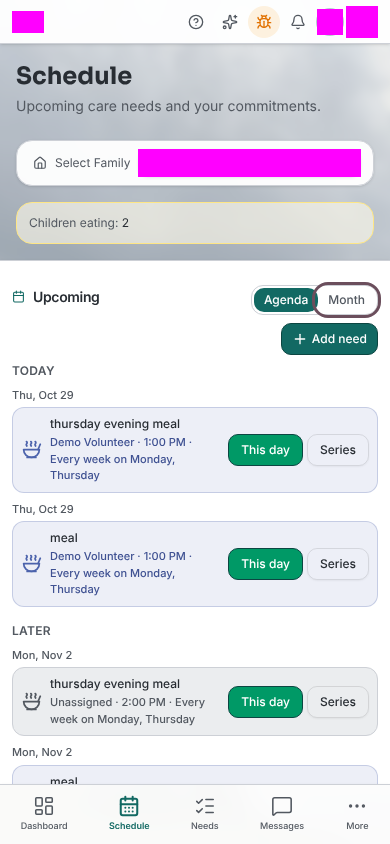
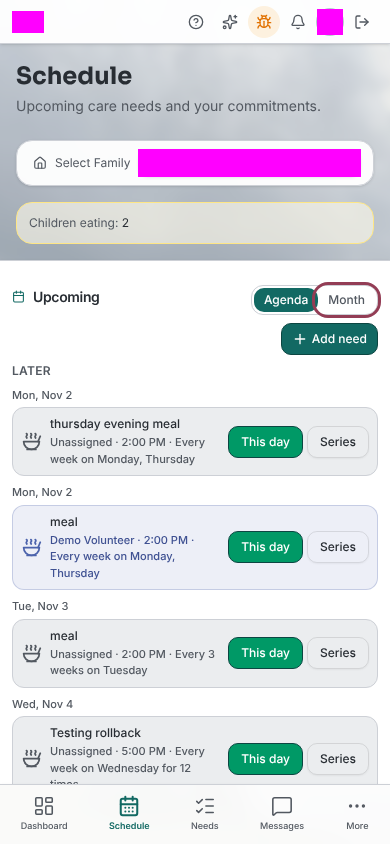
docs: address review feedback
Claude-Session: https://claude.ai/code/session_01KTiPHDdfLDeJLAavZk7c6v

diff --git a/docs/how-to/schedules/view-calendar.md b/docs/how-to/schedules/view-calendar.md
@@ -1,6 +1,7 @@
 ---
 status: needs-review
 primary: frontend
+last_reviewed: 2026-10-30
 ---
 
 # View the calendar
@@ -15,26 +16,27 @@ and you're assigned to a family.
 ## Steps
 
 1. From the main menu, open **Schedule**.
-   You'll see your family's calendar as a **month grid**, with a legend showing which task
-   types (Meals, Childcare, Transportation, and others) are **Assigned** vs.
-   **Unassigned**.
+   On a wide screen you'll see your family's calendar as a **month grid**. A legend shows
+   which entries are **Assigned** and which are **Unassigned**, and an icon key shows the
+   task types (Meals, Childcare, Transportation, and others).
 2. Each day shows its scheduled **events** and **commitments** (needs someone's claimed) —
    tap a day to see its full details.
 3. Use the **‹ ›** arrows next to the month name to move between months.
-4. On a phone, switch between **agenda** and **month** with the toggle beside the month
-   name. The agenda is an **Upcoming** list grouped into **Today**, **This week** and
-   **Later**. On a wide screen, an **Upcoming** list also sits beside the calendar.
+4. On a phone, the Schedule opens as an **Upcoming** list (the agenda) grouped into
+   **Today**, **This week** and **Later**. Use the **Agenda** / **Month** toggle at the top
+   right to switch views. On a wide screen the Schedule always shows the month grid.
 
    ![Phone view of the Schedule in Agenda mode: an Upcoming list grouped under Today and Later, with the Agenda and Month toggle at the top right.](../../assets/screens/view-calendar/agenda-view.png)
 
-   Tap **Month** to switch to the calendar grid.
+   Tap **Month** to switch to the calendar grid. The toggle then sits beside the month name.
 
    ![Phone view of the Schedule in Month mode: a month grid with Assigned and Unassigned legend, and the Agenda and Month toggle beside the month name.](../../assets/screens/view-calendar/month-view.png)
 
 ## What you'll see
 
 Your family's upcoming events and your own commitments. From a day's details you can
-also act on an entry — for example **Claim** it, or **Give up** a day you claimed (see
+also act on an entry — for example **Claim** it (a repeating entry offers **Claim this day**
+and **Claim series**), or **Give up** a day you're signed up for (see
 [Sign up for a slot](sign-up-slot.md)). You can also [claim a need](../needs/browse-needs.md)
 on the Needs board.
 
